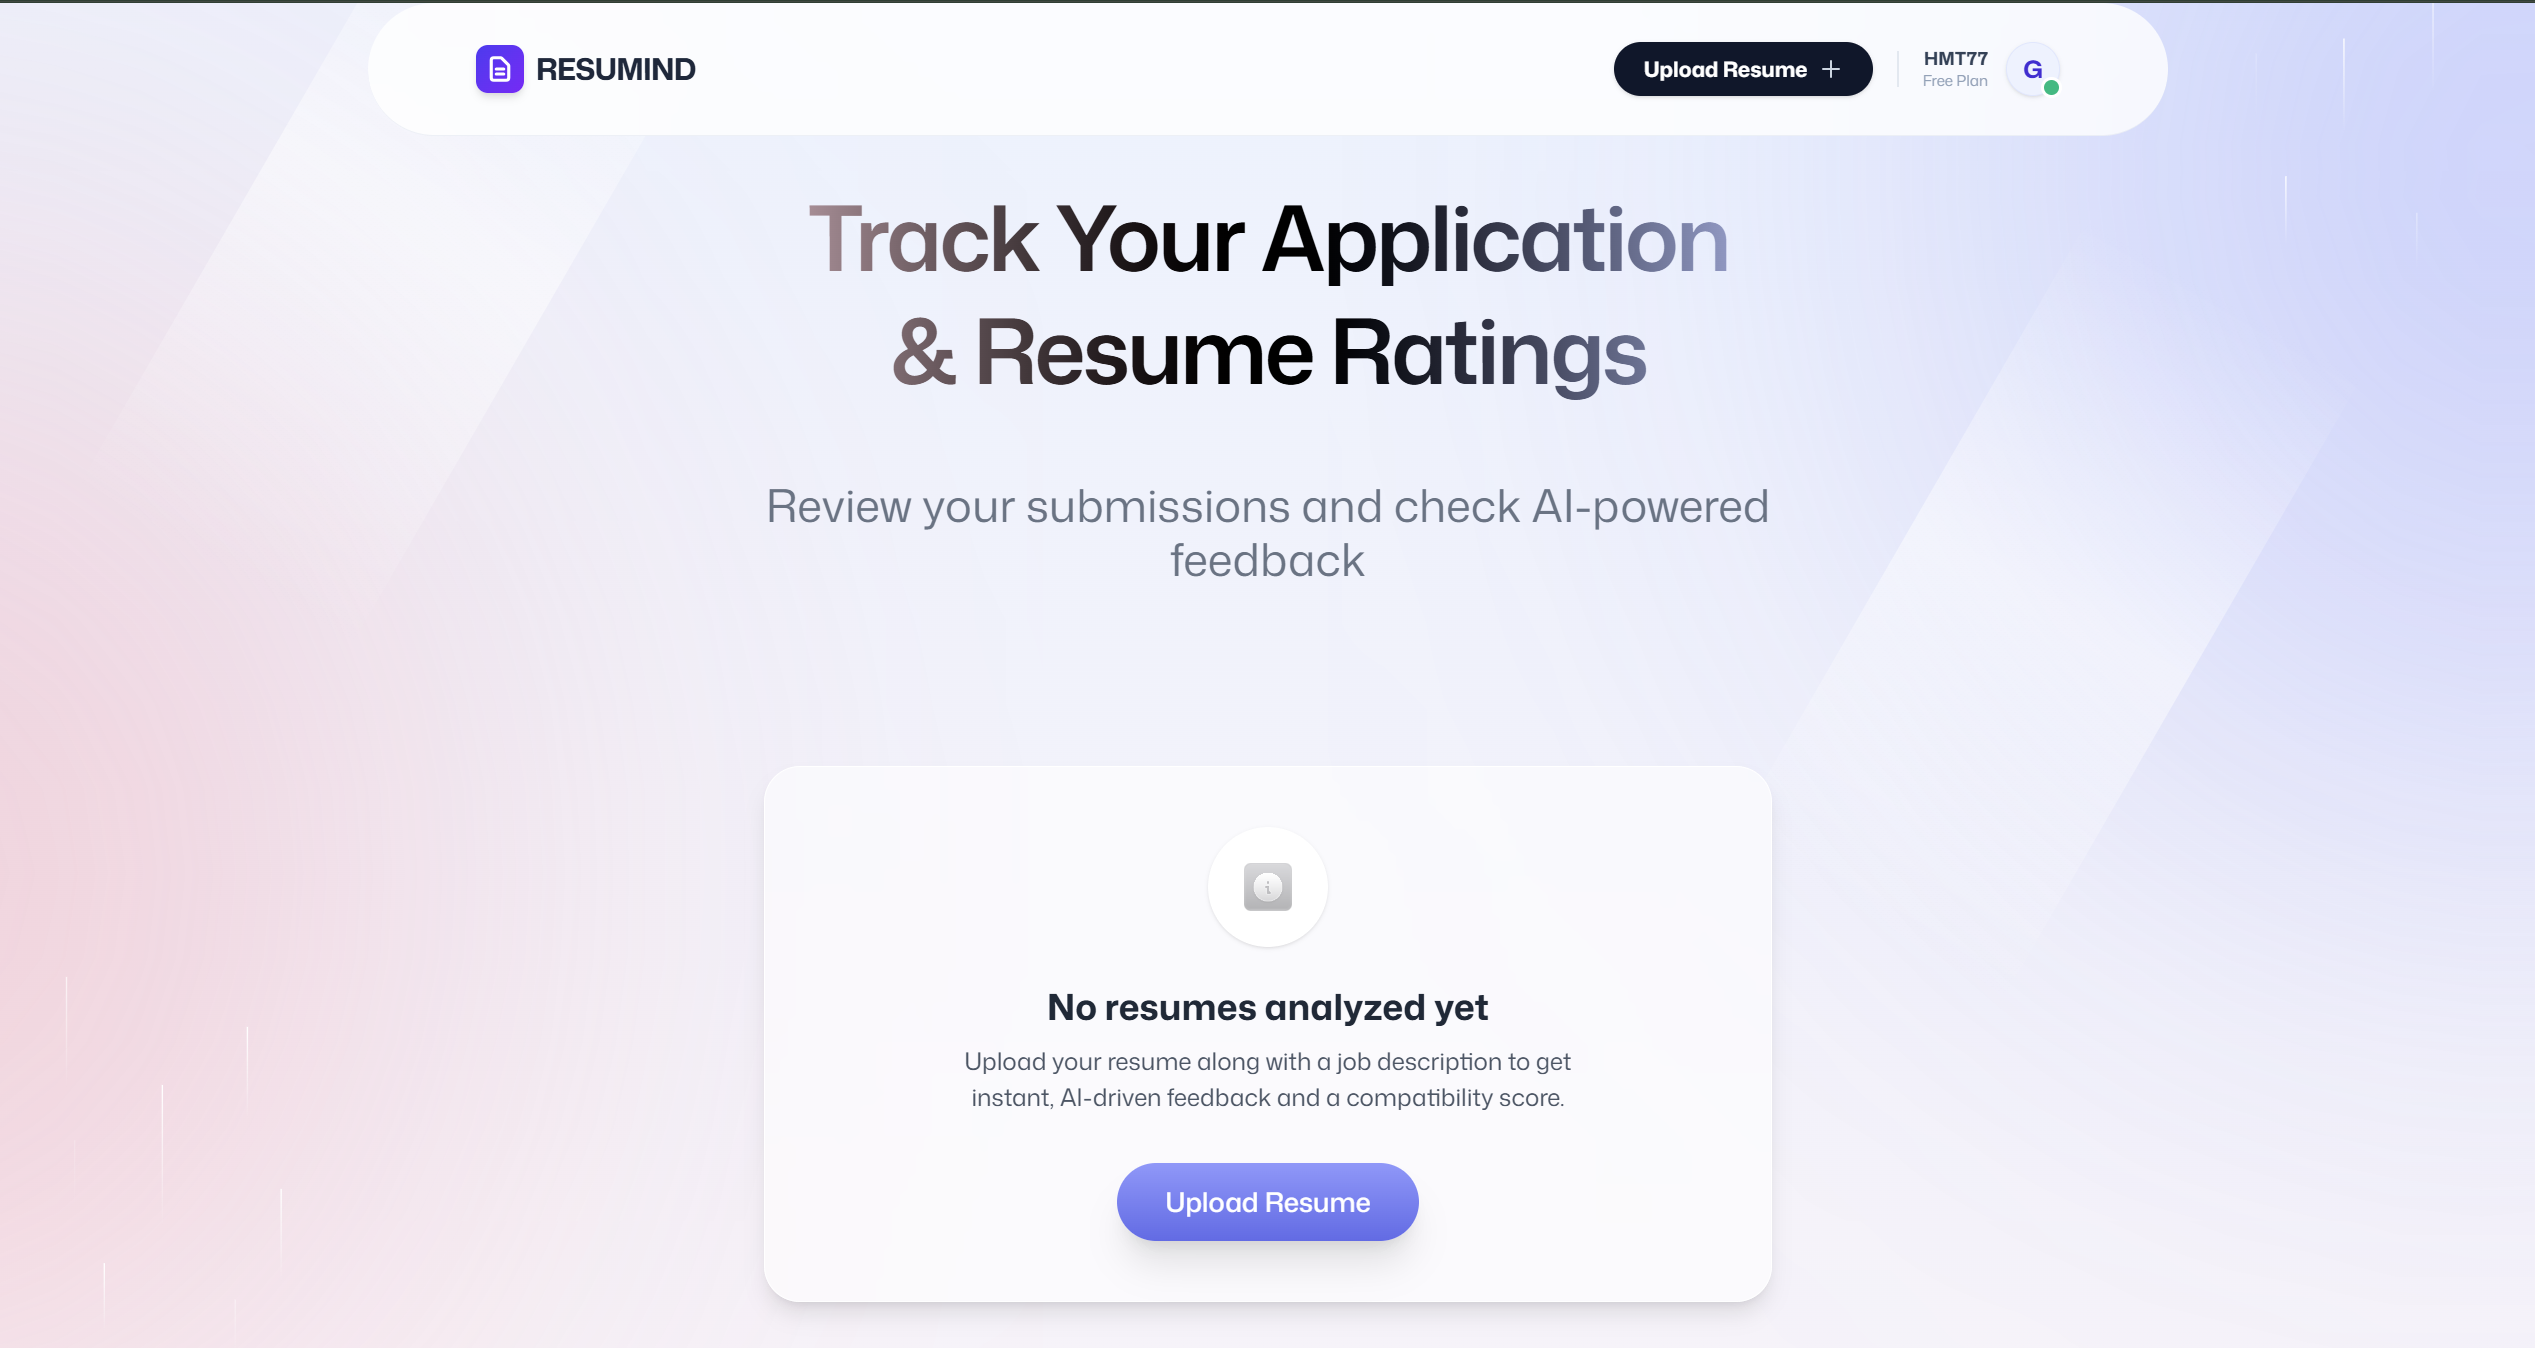
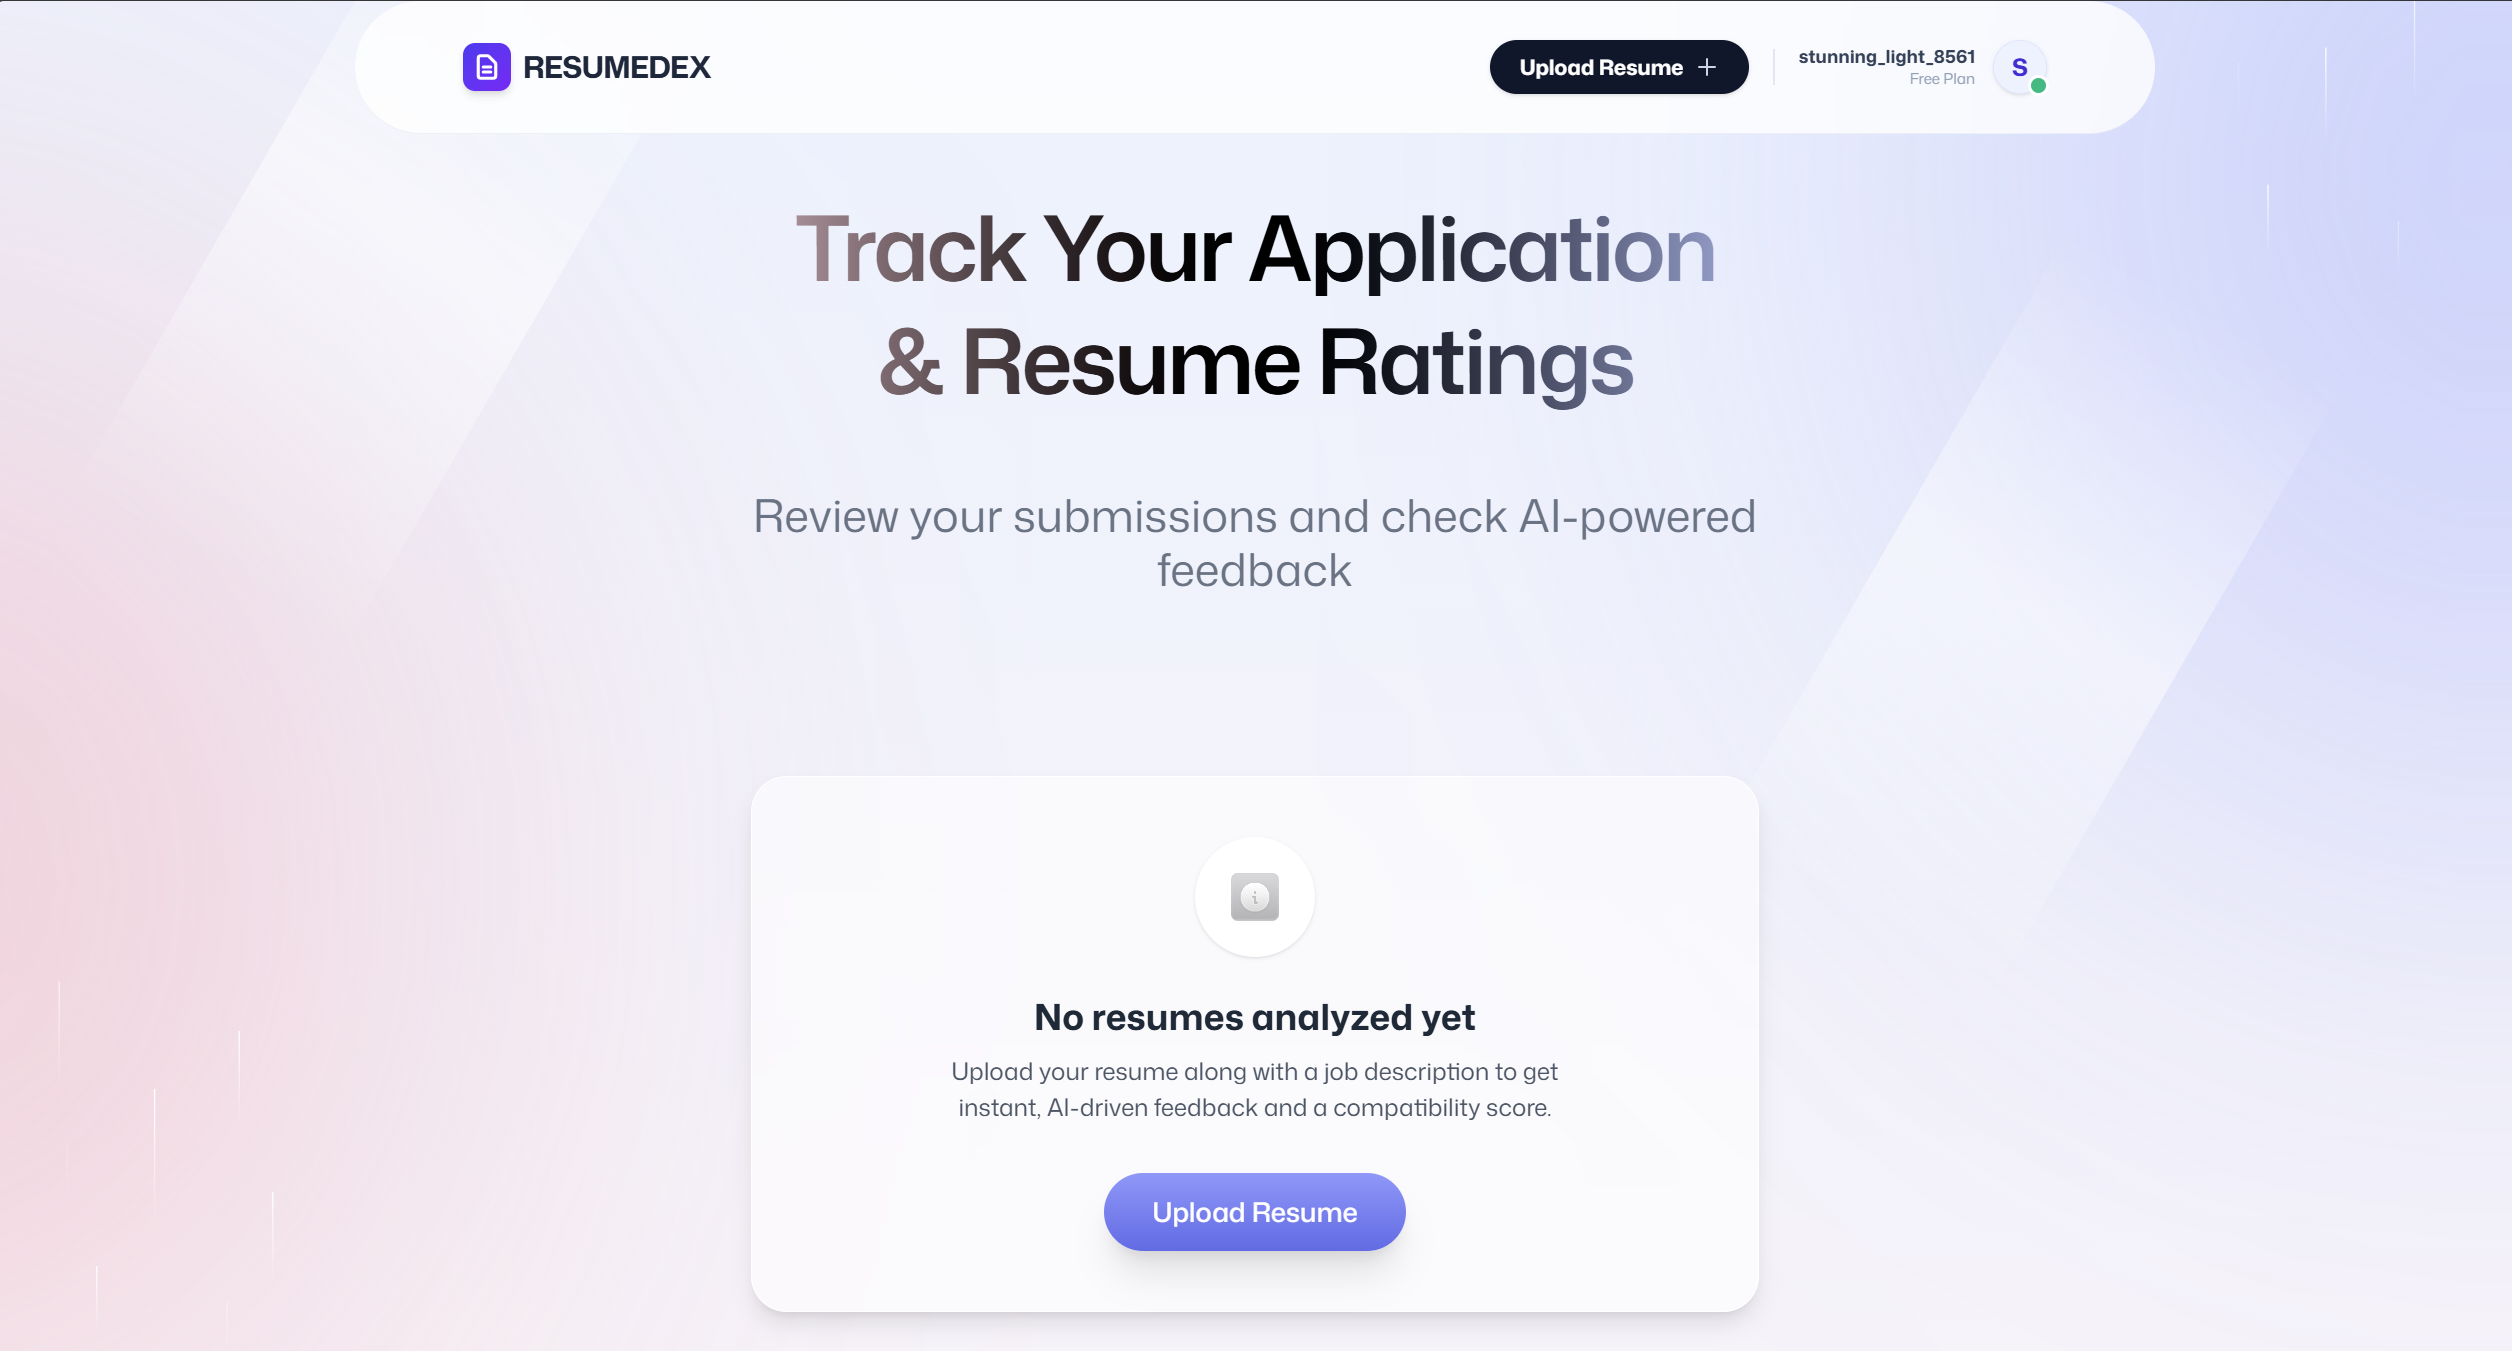
Rename project name and refine README

diff --git a/app/components/Navbar.tsx b/app/components/Navbar.tsx
@@ -1,7 +1,6 @@
 import type { JSX } from "react";
-import { Link, NavLink, useLocation } from "react-router";
+import { Link } from "react-router";
 import { usePuterStore } from "~/lib/puter";
-import { useState } from "react";
 import { cn } from "~/lib/utils";
 
 const Navbar: () => JSX.Element = () => {
@@ -21,7 +20,7 @@ const Navbar: () => JSX.Element = () => {
                         </svg>
                     </div>
                     <span className="text-xl font-bold text-slate-800 tracking-tight group-hover:text-indigo-600 transition-colors">
-                        RESUMIND
+                        RESUMEDEX
                     </span>
                 </Link>
 

diff --git a/app/routes/upload.tsx b/app/routes/upload.tsx
@@ -8,7 +8,7 @@ import {generateUUID} from "~/lib/utils";
 import {prepareInstructions} from "../../constants";
 
 export const meta = () => ([
-    { title: 'Resumind | Upload ' },
+    { title: 'ResumeDex | Upload ' },
     { name: 'description', content: 'Upload your resume to view feedback' },
 ])
 

diff --git a/app/routes/cover-letter.tsx b/app/routes/cover-letter.tsx
@@ -3,7 +3,7 @@ import { useEffect, useState } from "react";
 import { usePuterStore } from "~/lib/puter";
 
 export const meta = () => ([
-    { title: 'Resumind | Cover Letter' },
+    { title: 'ResumeDex | Cover Letter' },
     { name: 'description', content: 'AI Generated Cover Letter' }
 ]);
 

diff --git a/app/routes/auth.tsx b/app/routes/auth.tsx
@@ -3,7 +3,7 @@ import {usePuterStore} from "~/lib/puter";
 import {useLocation, useNavigate} from "react-router";
 
 export const meta  = () => ([
-    { title: 'Resumind | Auth' },
+    { title: 'ResumeDex | Auth' },
     { name: 'description', content: 'Log into your account'}
 ])
 

diff --git a/app/routes/resume.tsx b/app/routes/resume.tsx
@@ -6,7 +6,7 @@ import ATS from "~/components/ATS";
 import Details from "~/components/Details";
 
 export const meta  = () => ([
-    { title: 'Resumind | Review' },
+    { title: 'ResumeDex | Review' },
     { name: 'description', content: 'Detailed overview of your resume'}
 ])
 

diff --git a/app/routes/home.tsx b/app/routes/home.tsx
@@ -7,7 +7,7 @@ import {useEffect, useState} from "react";
 
 export function meta({}: Route.MetaArgs) {
   return [
-    { title: "Resumind" },
+    { title: "ResumeDex" },
     { name: "description", content: "Smart feedback for your dream job!" },
   ];
 }

diff --git a/README.md b/README.md
@@ -1,4 +1,4 @@
-# Resumind - AI Resume Analyzer
+# ResumeDex - AI Resume Analyzer
 
 A serverless, AI-powered Applicant Tracking System (ATS) and resume analyzer. **Resumind** helps jobseekers optimize their resumes by analyzing them against specific job descriptions using advanced AI models (Claude, GPT, etc.) entirely for free via Puter.js.
 
@@ -38,7 +38,7 @@ A serverless, AI-powered Applicant Tracking System (ATS) and resume analyzer. **
 1.  **Clone the repository:**
     ```bash
     git clone https://github.com/ThangHoang54/ai-resume-analyser.git
-    cd ai-resume-analyser
+    cd resumedex
     ```
 
 2.  **Install dependencies:**
